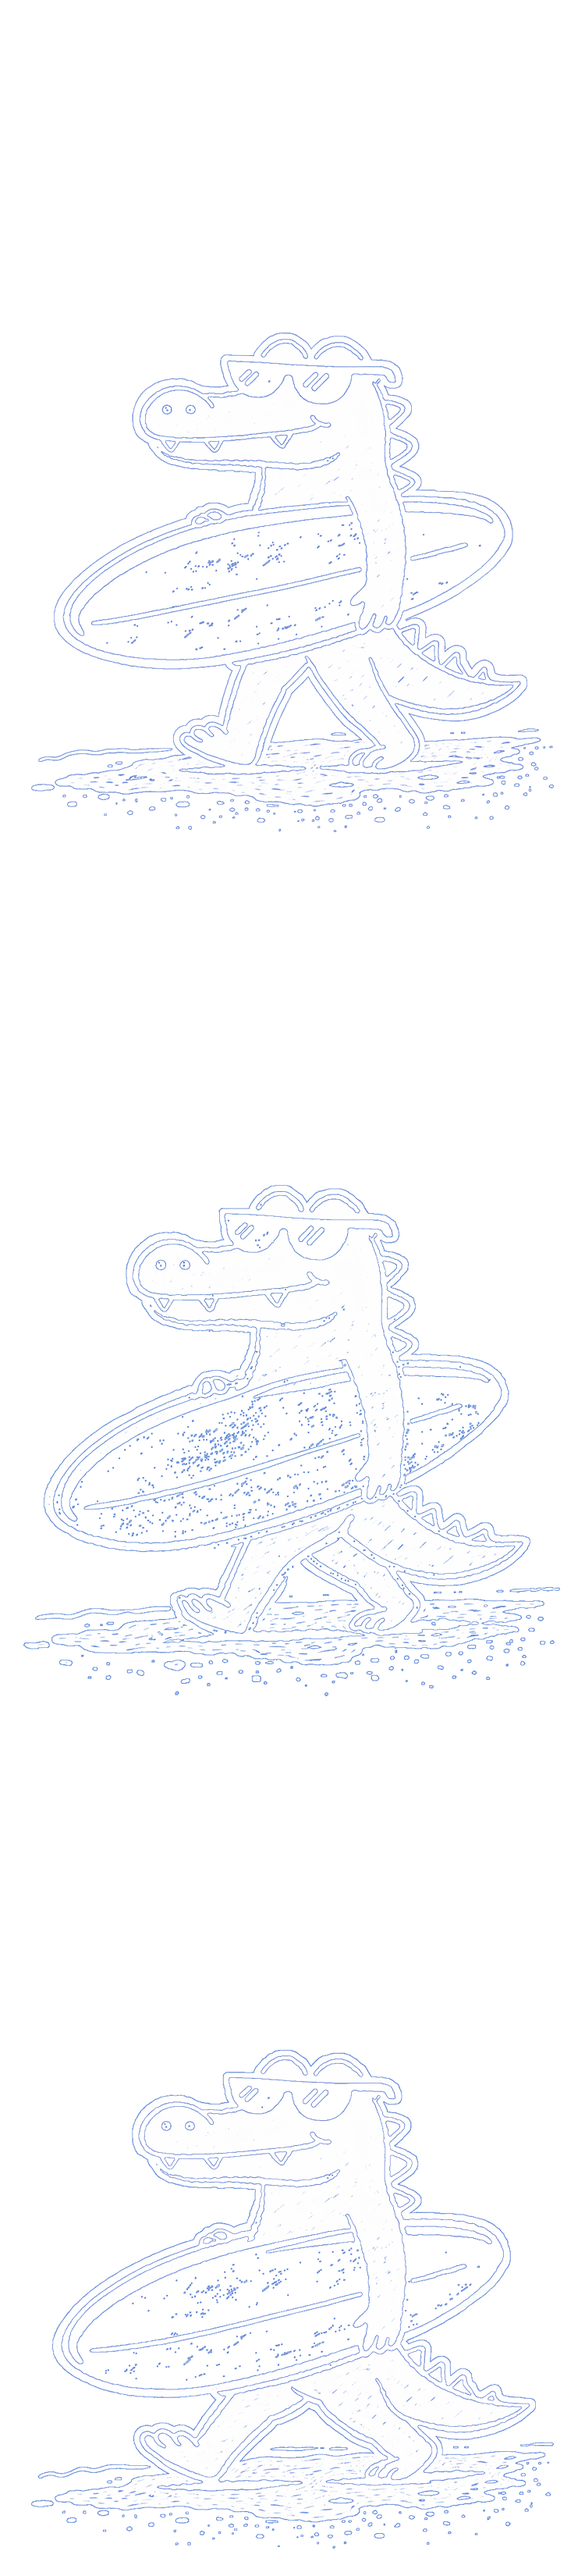
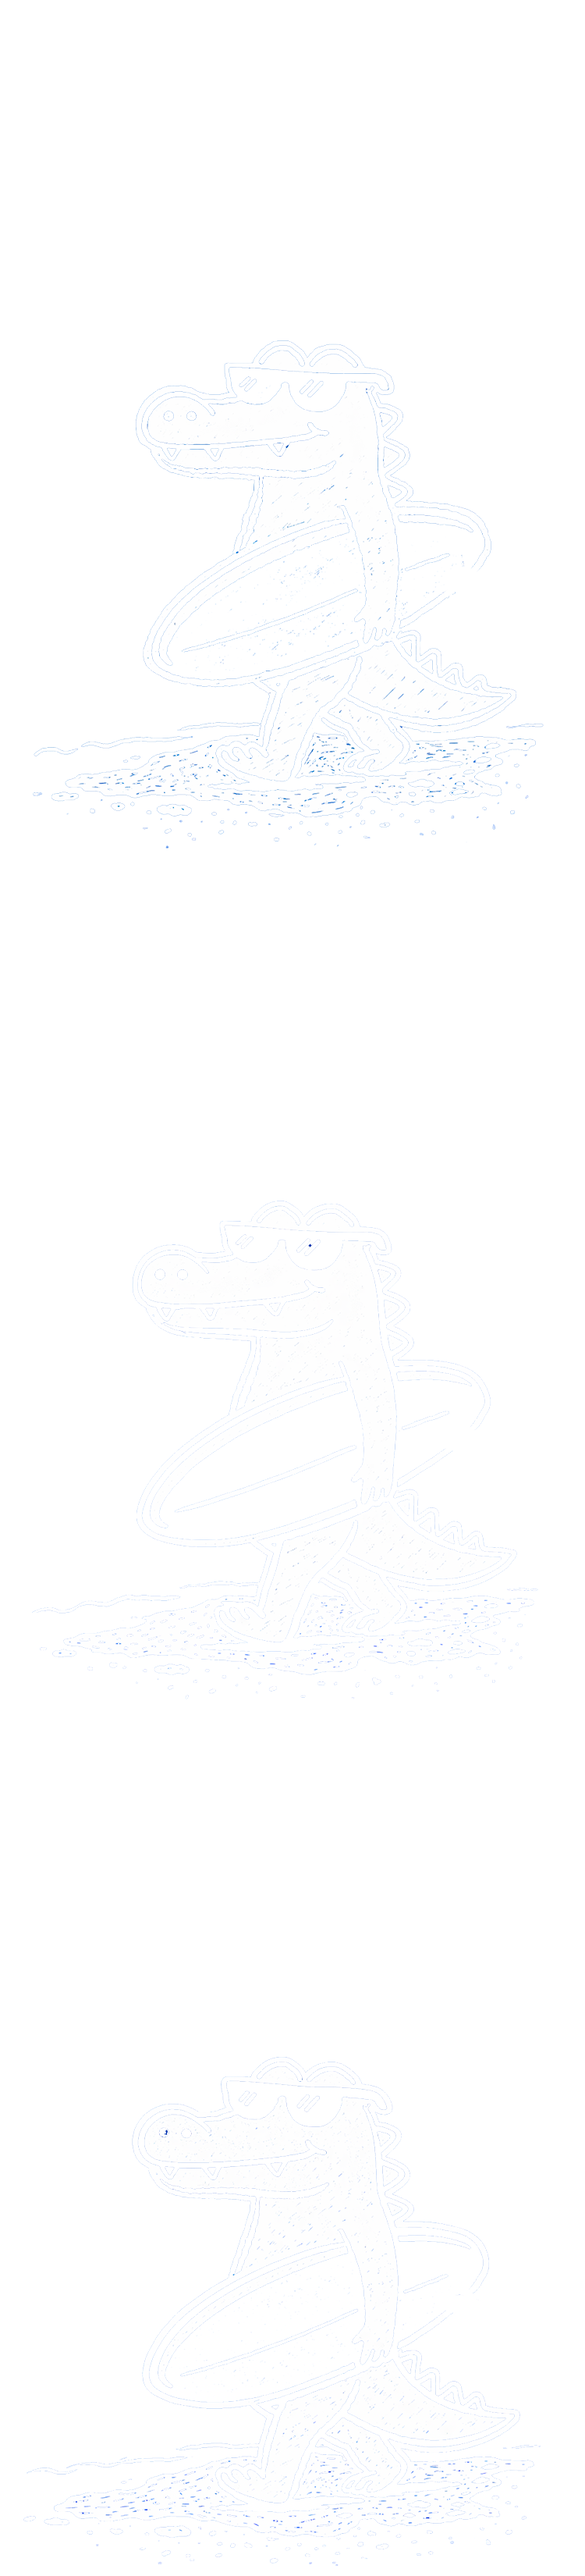
Ilustraciones: home actualizada + Perfecto.svg animado (3 frames, azul corporativo)

diff --git a/js/app.js b/js/app.js
@@ -219,7 +219,7 @@ function renderResults(sliderIdx) {
   document.getElementById('diagnosis-subtitle').textContent = info.subtitulo;
 
   // Ilustración
-  const ILLUS_MAP = { 'perfecto': 'Perfecto.png', 'bueno': 'Bueno.png' };
+  const ILLUS_MAP = { 'perfecto': 'Perfecto.svg', 'bueno': 'Bueno.png' };
   const illusEl = document.getElementById('diagnosis-illus');
   if (ILLUS_MAP[estado]) {
     illusEl.style.display = '';
